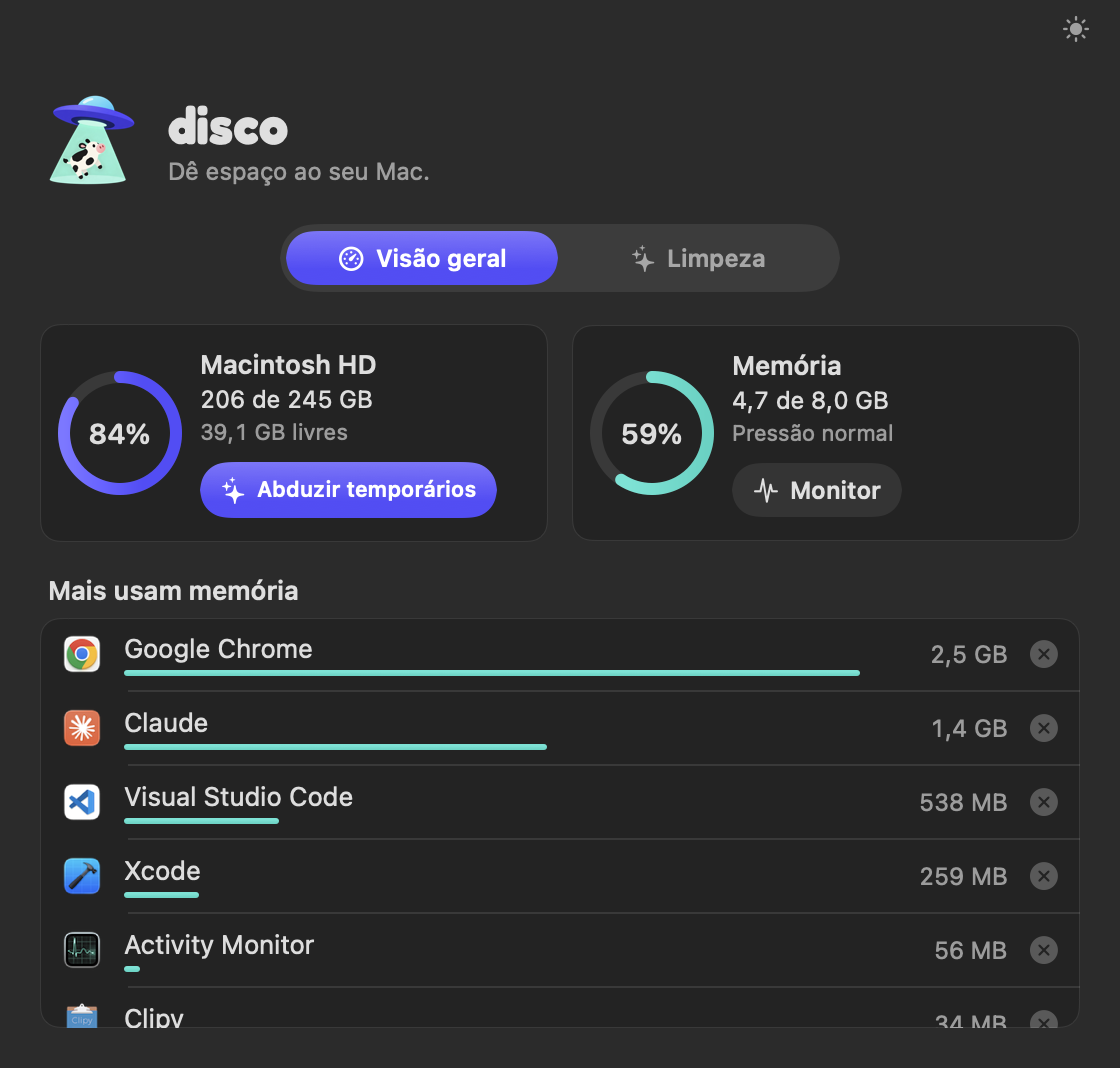
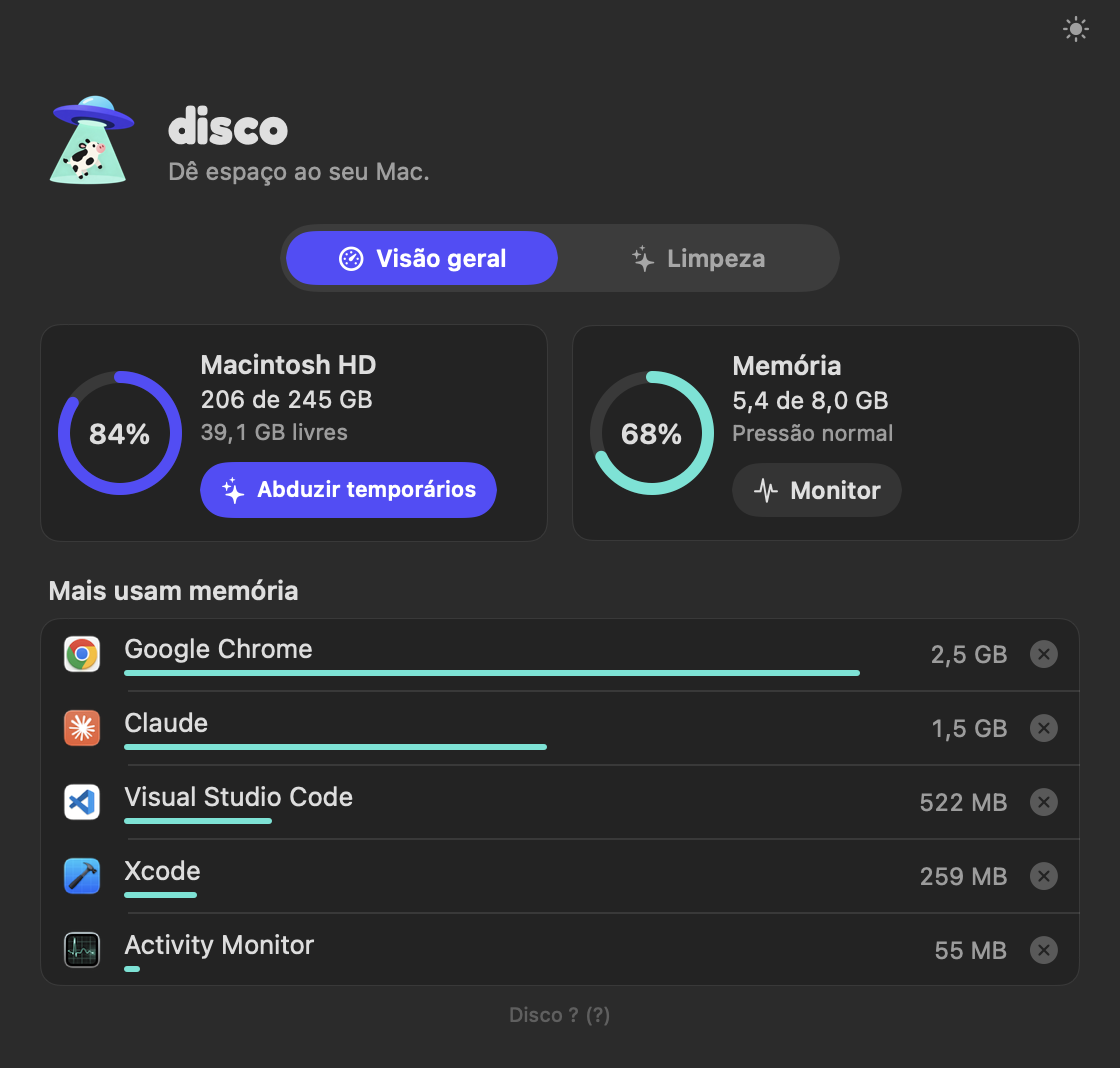
Cores flat: sem degradês nos widgets, painel e janela

diff --git a/App/MainWindow.swift b/App/MainWindow.swift
@@ -302,7 +302,7 @@ struct TabToggle: View {
                     .background {
                         if selected {
                             Capsule()
-                                .fill(Color.brandPurple.gradient)
+                                .fill(Color.brandPurple)
                                 .matchedGeometryEffect(id: "selection", in: namespace)
                         }
                     }
@@ -453,7 +453,7 @@ struct StatCard<Action: View>: View {
                 Circle().stroke(.quaternary, lineWidth: 6)
                 Circle()
                     .trim(from: 0, to: fraction)
-                    .stroke(tint.gradient, style: StrokeStyle(lineWidth: 6, lineCap: .round))
+                    .stroke(tint, style: StrokeStyle(lineWidth: 6, lineCap: .round))
                     .rotationEffect(.degrees(-90))
                     .animation(.easeInOut(duration: 0.5), value: fraction)
                 Text("\(Int((fraction * 100).rounded()))%")
@@ -489,7 +489,7 @@ struct AppRow: View {
                 Text(app.name).font(.system(size: 13)).lineLimit(1)
                 GeometryReader { geo in
                     Capsule()
-                        .fill(Color.brandMint.gradient)
+                        .fill(Color.brandMint)
                         .frame(width: max(geo.size.width * share, 3))
                 }
                 .frame(height: 3)

diff --git a/Widget/DiscoWidget.swift b/Widget/DiscoWidget.swift
@@ -111,7 +111,7 @@ struct UsageRing: View {
             Circle().stroke(.quaternary, lineWidth: size * 0.09)
             Circle()
                 .trim(from: 0, to: fraction)
-                .stroke(tint.gradient, style: StrokeStyle(lineWidth: size * 0.09, lineCap: .round))
+                .stroke(tint, style: StrokeStyle(lineWidth: size * 0.09, lineCap: .round))
                 .rotationEffect(.degrees(-90))
                 .widgetAccentable()
             Image(nsImage: icon)

diff --git a/App/MenuBar.swift b/App/MenuBar.swift
@@ -268,7 +268,7 @@ struct Bar: View {
         GeometryReader { geo in
             ZStack(alignment: .leading) {
                 Capsule().fill(.quaternary)
-                Capsule().fill(tint.gradient).frame(width: max(geo.size.width * fraction, 6))
+                Capsule().fill(tint).frame(width: max(geo.size.width * fraction, 6))
             }
         }
         .frame(height: 6)

diff --git a/Shared/Brand.swift b/Shared/Brand.swift
@@ -64,7 +64,7 @@ struct CapsuleLabel: View {
 
     private var fill: AnyShapeStyle {
         switch style {
-        case .prominent: AnyShapeStyle(Color.brandPurple.gradient)
+        case .prominent: AnyShapeStyle(Color.brandPurple)
         case .outline: AnyShapeStyle(Color.brandPurple.opacity(0.08))
         case .secondary: AnyShapeStyle(.fill.secondary)
         }
